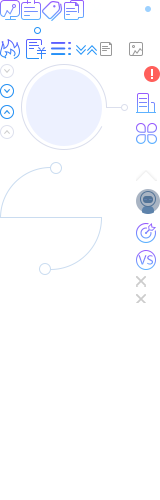
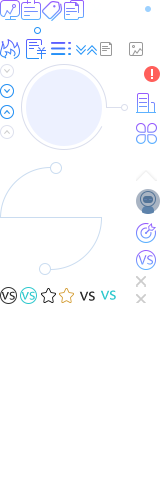
项目列表对比 收藏

diff --git a/css/dn.css b/css/dn.css
@@ -307,6 +307,10 @@ ul,ol,dl,dt,dd,p,img{ display:block; border:0;list-style:none; }
 .contrast_img img{float:left; width:28px; height:28px; border:1px solid #fcfbfc; margin-left:10px; margin-top:11px;}
 .contrast_name{font-size:14px; color:#666666; float:left; width:107px; margin-left:10px;}
 .dn_ico_contrast{background-position: -136px -276px; width: 10px; height: 10px;display:block; margin-top:20px; float: left; margin-right: 13px; cursor:pointer;}
+.dn_ico_list_contrast{background-position:0 -286px; width: 19px; height: 19px; display: inline-block; cursor:pointer;}
+.dn_ico_list_contrast_on{background-position: -20px -286px;}
+.dn_ico_list_collect{background-position:-40px -286px; width: 19px; height: 19px;  display: inline-block;  cursor:pointer;}
+.dn_ico_list_collect_on{background-position: -59px -286px;}
 .contrast_two>ul{margin-top:20px; overflow:hidden;}
 .contrast_two>ul>li{text-align:center; overflow:hidden; margin-bottom:10px; color:#333;}
 .contrast_three>ul{margin-top:10px; overflow:hidden;}
@@ -322,10 +326,10 @@ ul,ol,dl,dt,dd,p,img{ display:block; border:0;list-style:none; }
 .Floating_box_a span{font-size:24px;}
 .dn_ico_box{background-position: -136px -337px; width: 21px; height: 21px; display: inline-block;margin-left: 10px;  position:absolute; top: 15px;}
 .dn_ico_box_show{background-position: -136px -310px;}
-.Floating_box_b{background-color:#fff; overflow: hidden;}
+.Floating_box_b{background-color:#fff; overflow: hidden; border-left:1px solid #f3f3f3; border-bottom:1px solid #f3f3f3; border-right:1px solid #f3f3f3;}
 .Floating_box_b>ul{width:206px; margin-left:auto; margin-right:auto; margin-bottom:20px;  overflow: hidden;}
 .Floating_box_b>ul>li{border-bottom:1px solid #f0f0f0; overflow: hidden;}
-.Floating_box_b>ul>li img{ width:28px; height:28px; border:1px solid #faf9fa; margin-left:10px; float:left; margin-top:10px; margin-bottom:10px;}
+.Floating_box_b>ul>li img{ width:28px; height:28px; border:1px solid #f0f0f0; margin-left:10px; float:left; margin-top:10px; margin-bottom:10px;}
 .Floating_box_href{background-color:#2393f7; color:#fff; height:40px; border-radius:5px; margin-bottom:20px; line-height:40px; text-align:center; width:186px; margin-left:auto; margin-right:auto;}
 .Floating_box_b_name{font-size:14px; width:128px; overflow:hidden; text-overflow: ellipsis; white-space: nowrap; color:#666666; float:left; margin-left:10px;  margin-top: 14px;}
 .Floating_box_b .dn_ico_contrast{ margin-top: 19px;    float: right; margin-right: 10px; cursor: pointer;}

diff --git a/js/platformUrl.js b/js/platformUrl.js
@@ -6,16 +6,21 @@
 //	dataContentURL: "http://127.0.0.1:8085/data/",
 //	logoPath: "http://static.galaxyinternet.com/img/"
 //}
-
-
+//dve
+var Constants = {
+	platformContentURL: "http://ctdndev.gi.com/api/",
+	searchContentURL: "http://ctdndev.gi.com/search/",
+	dataContentURL: "http://ctdndev.gi.com/data/",
+    logoPath: "http://static.galaxyinternet.com/img/"
+}
 
 //线上
-var Constants = {
+/*var Constants = {
 	platformContentURL: "http://ctdn.galaxyinternet.com/api/",
 	searchContentURL: "http://ctdn.galaxyinternet.com/search/",
 	dataContentURL: "http://ctdnr.galaxyinternet.com/data/",
     logoPath: "http://static.galaxyinternet.com/img/"
-}
+}*/
 var home = {
 	    index : "http://ctdn.galaxyinternet.com"
 	}

diff --git a/js/formatter_common.js b/js/formatter_common.js
@@ -452,8 +452,15 @@ function investfirmFormatter(value,row){
 }
 
 function projectOption(){
-    return "<span>对比</span> <span>收藏</span>"
+    return "<span class='dn_ico dn_ico_list_contrast'></span> <span class='dn_ico dn_ico_list_collect'></span>"
 }
-
-
+//绑定收藏和对比
+$('body').delegate('.dn_ico_list_contrast','click', function(event){
+	event.stopPropagation();
+	$(this).toggleClass('dn_ico_list_contrast_on');
+})
+$('body').delegate('.dn_ico_list_collect','click', function(event){
+	event.stopPropagation();
+	$(this).toggleClass('dn_ico_list_collect_on');
+})
 
